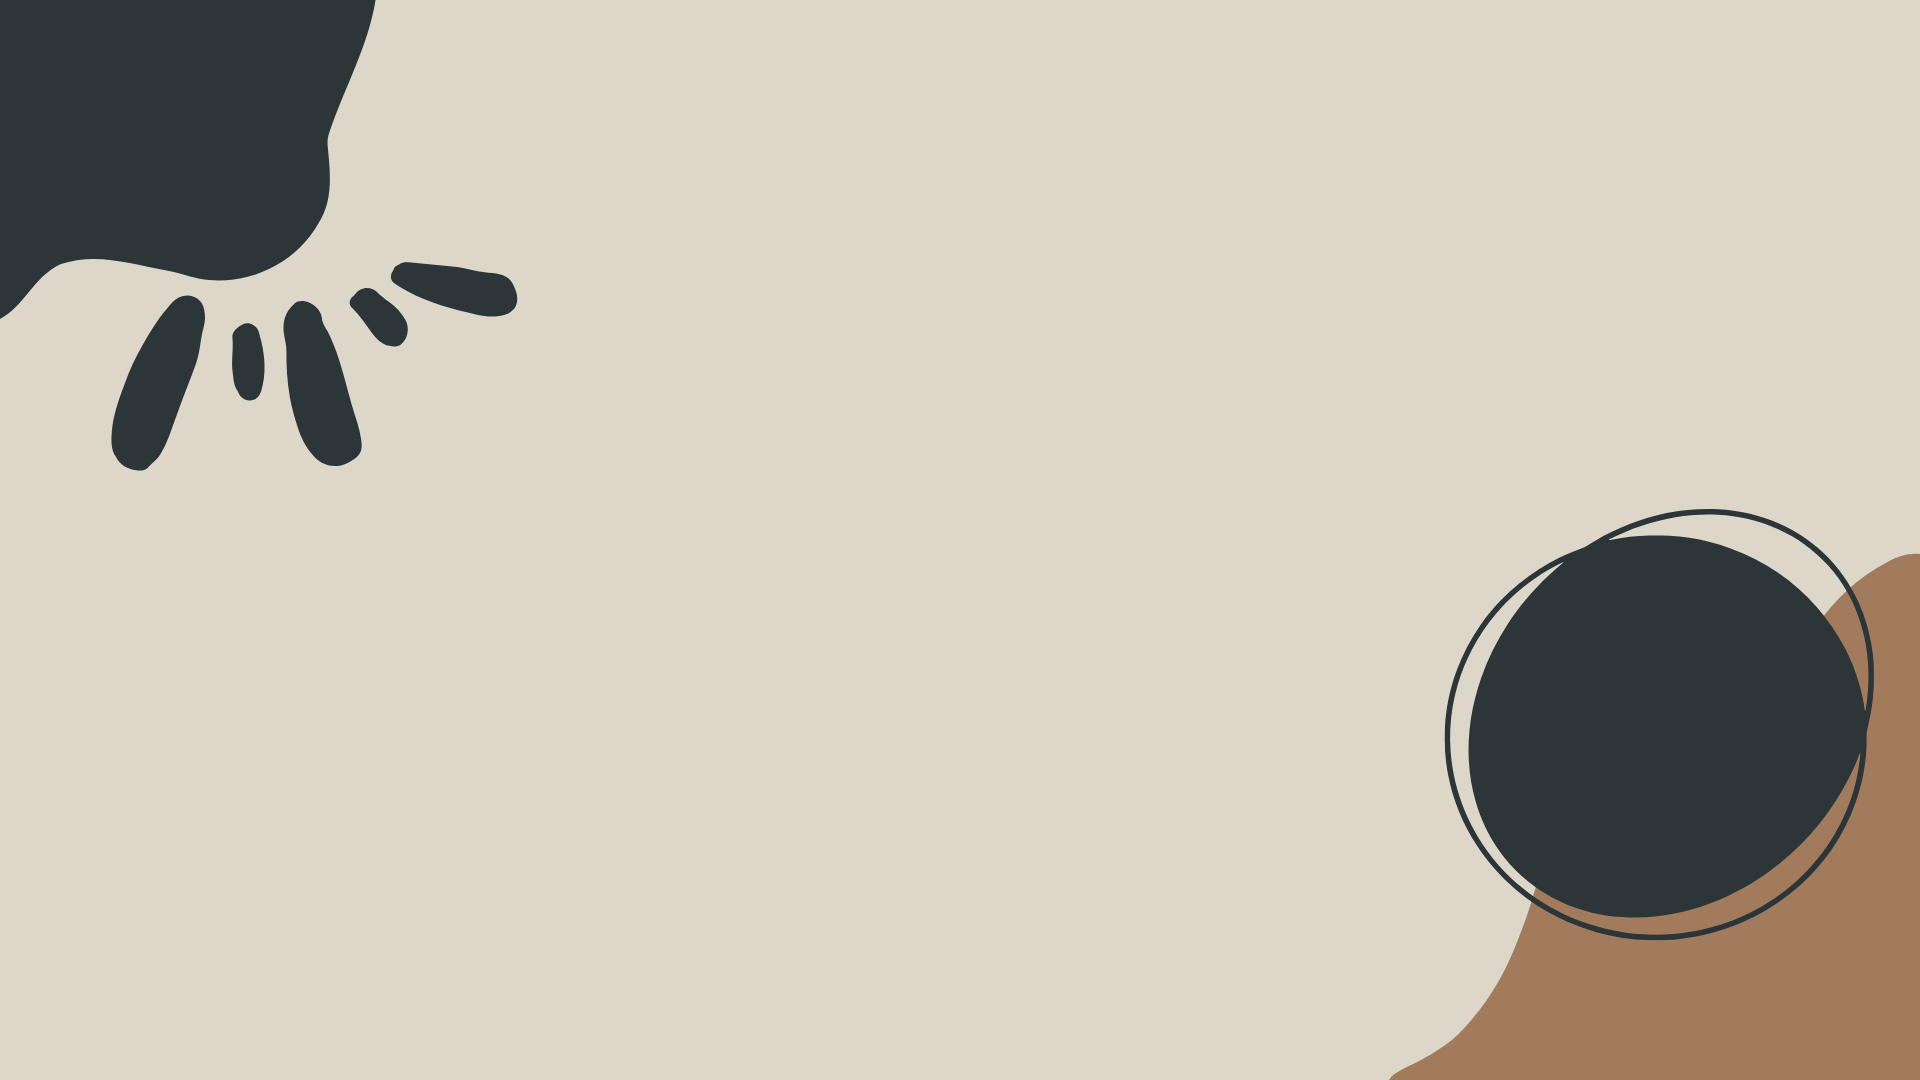
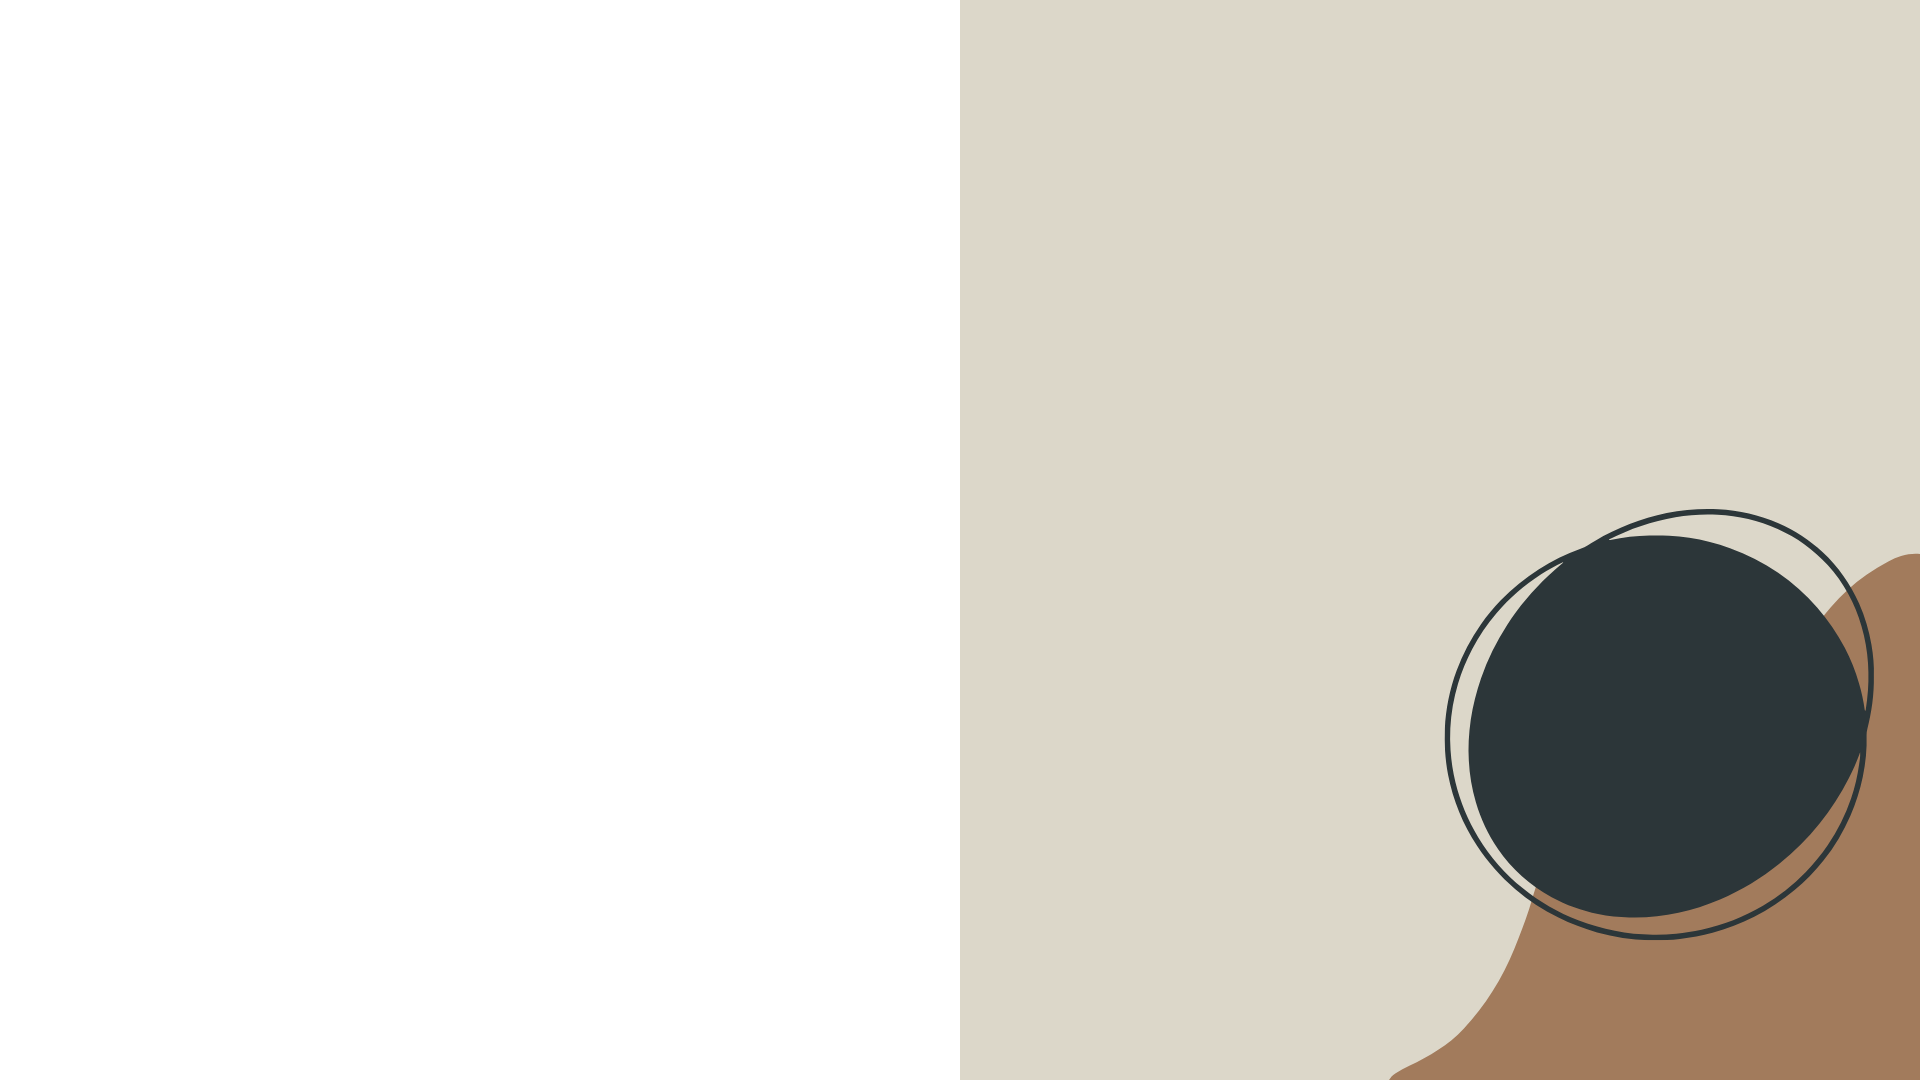
fixing background height

diff --git a/styles/pages.module.scss b/styles/pages.module.scss
@@ -14,18 +14,24 @@
 }
 
 .auth-container {
-  background-image: url("../public/auth-screen-background-2.png");
-  background-size: 100%;
+  @media screen and (min-width: 1024px) {
+    background-size: 80%, 50%;
+  }
+  background-size: 100%, 70%;
 
-  background-repeat: no-repeat;
+  background-image: url("../public/auth-screen-background-2.png"),
+    url("../public/auth-page-background-1.png");
+  background-position: right bottom, left top;
+  background-repeat: no-repeat, no-repeat;
+
   display: flex;
   align-items: center;
   justify-content: center;
   width: 100vw;
-  height: calc(100% - $headerHeight);
+  height: 100%;
 
   @media (orientation: portrait) {
-    background-image: url("../public/auth-screen-background-portrait.png");
+    height: 100%;
   }
 }
 
